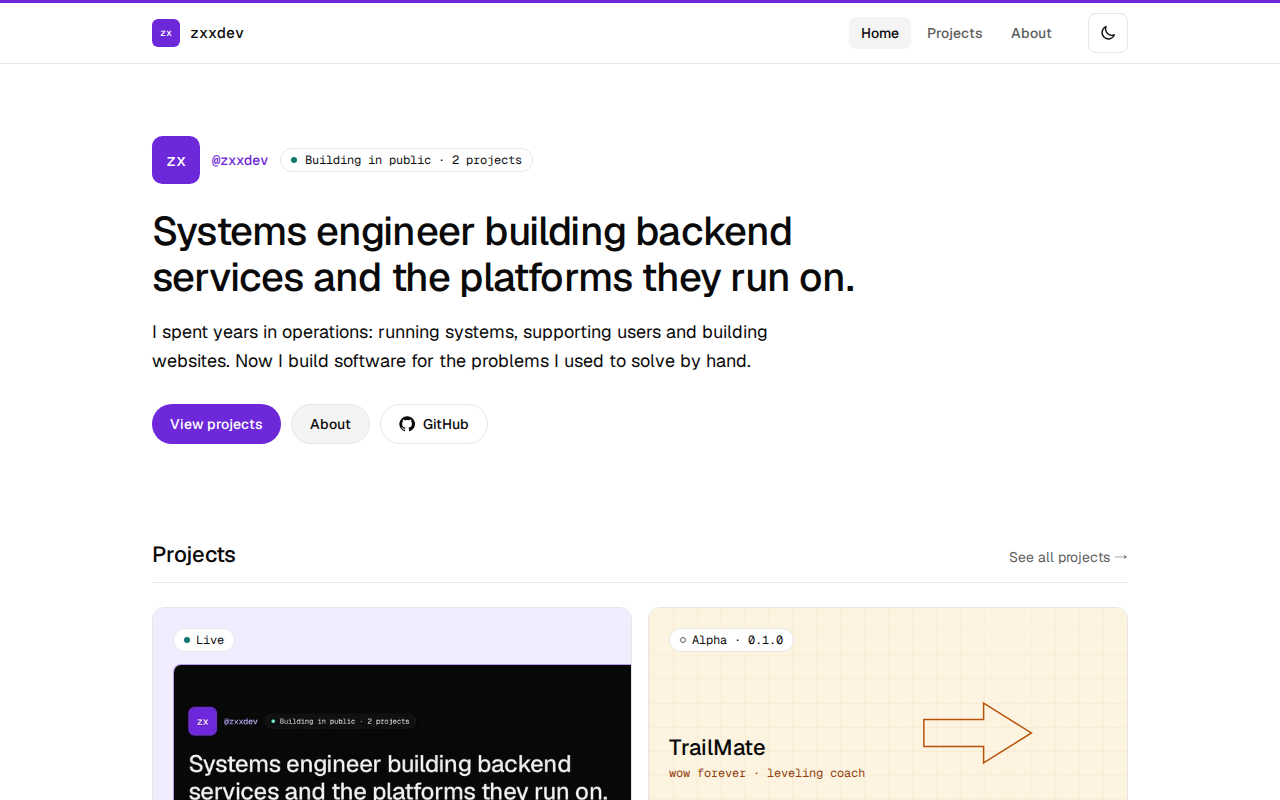
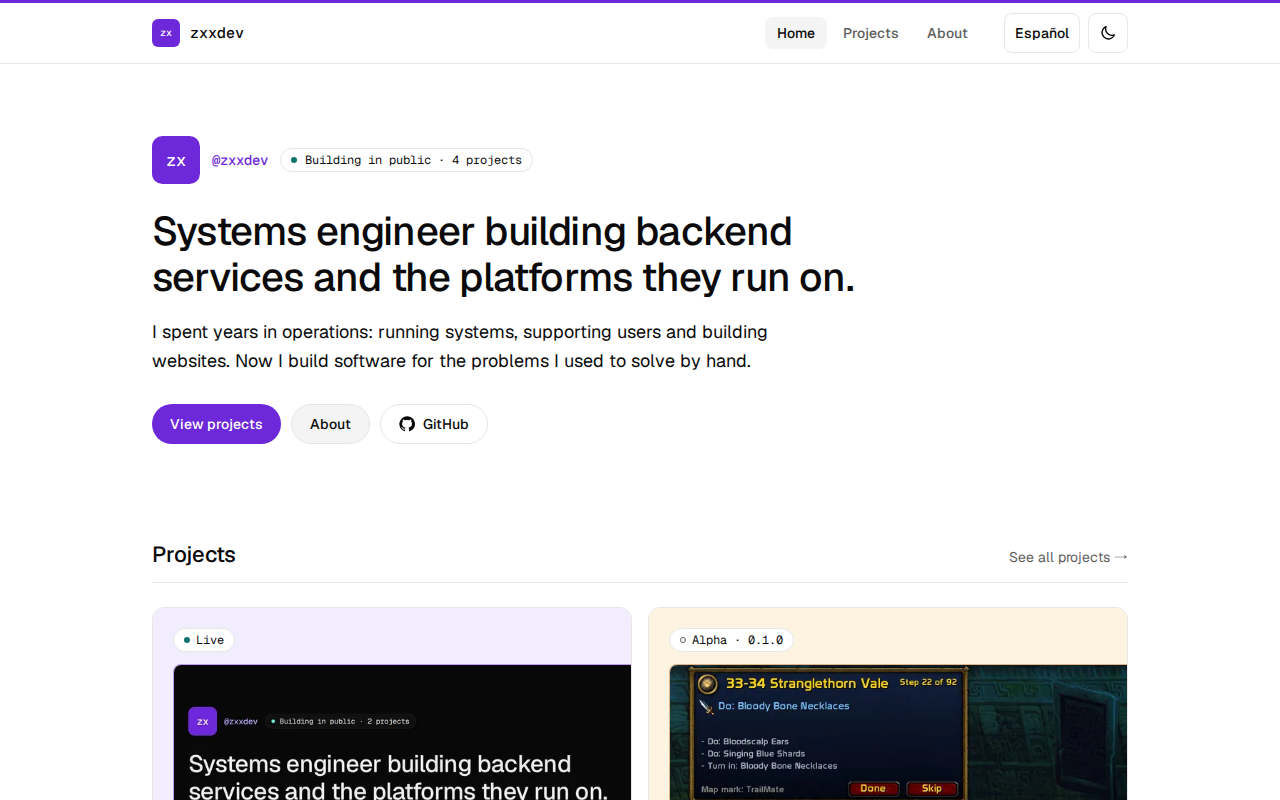
docs: remake the screenshots with the language switch

Changed region(s): [[0.5, 0.8125, 0.9062, 1.0], [0.5938, 0.0312, 0.8438, 0.0625]]

diff --git a/README.md b/README.md
@@ -77,7 +77,7 @@ Today:
   audit, a security scan and a full build.
 - Automatic publishing to GitHub Pages on every merge to `main`.
 
-<img src="docs/images/home-mobile.png" width="260" alt="The home page on a phone, in dark theme: the menu button, the alias, the headline and the three buttons.">
+<img src="docs/images/home-mobile.png" width="260" alt="The home page on a phone, in dark theme: the menu button, the link to the Spanish version, the alias, the headline and the three buttons.">
 
 <sub>The home page on a 390 px wide phone.</sub>
 
